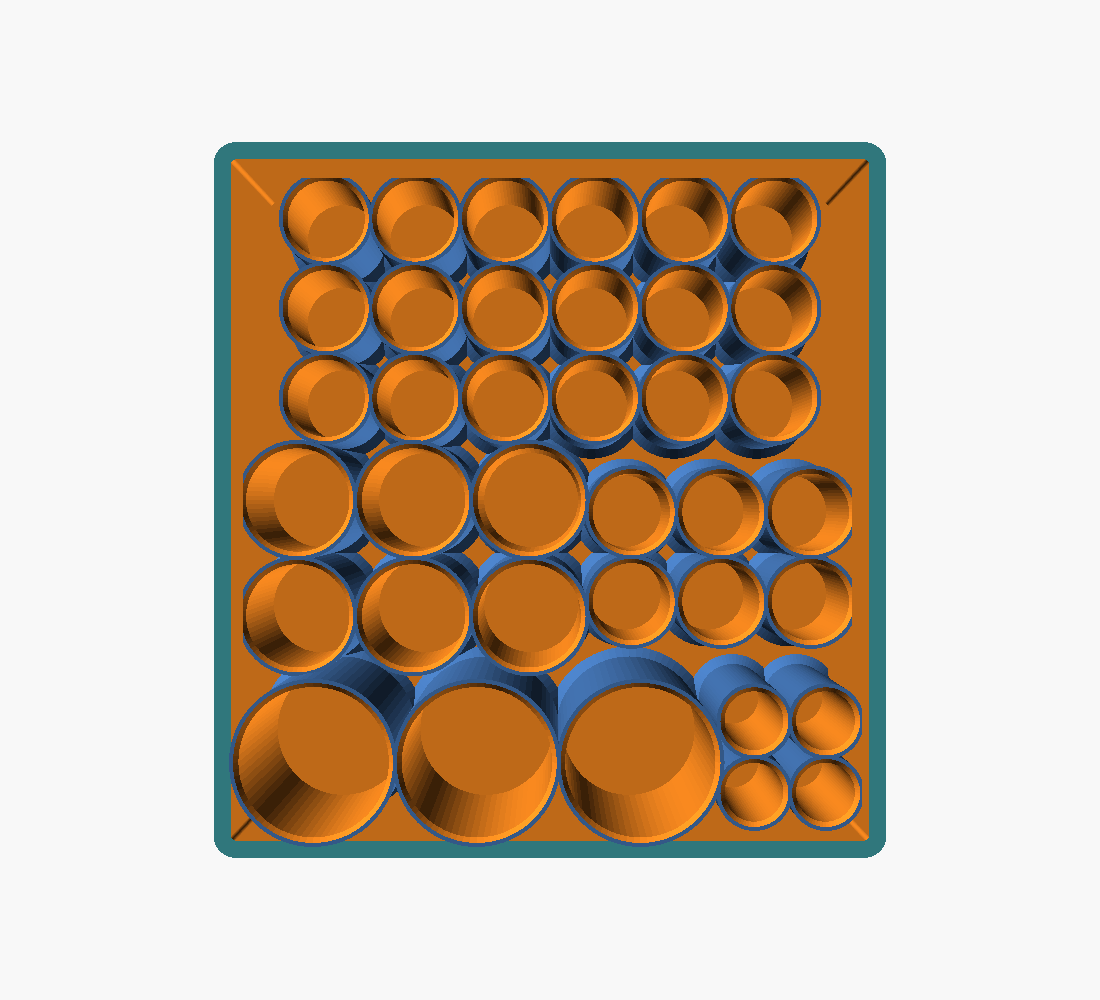
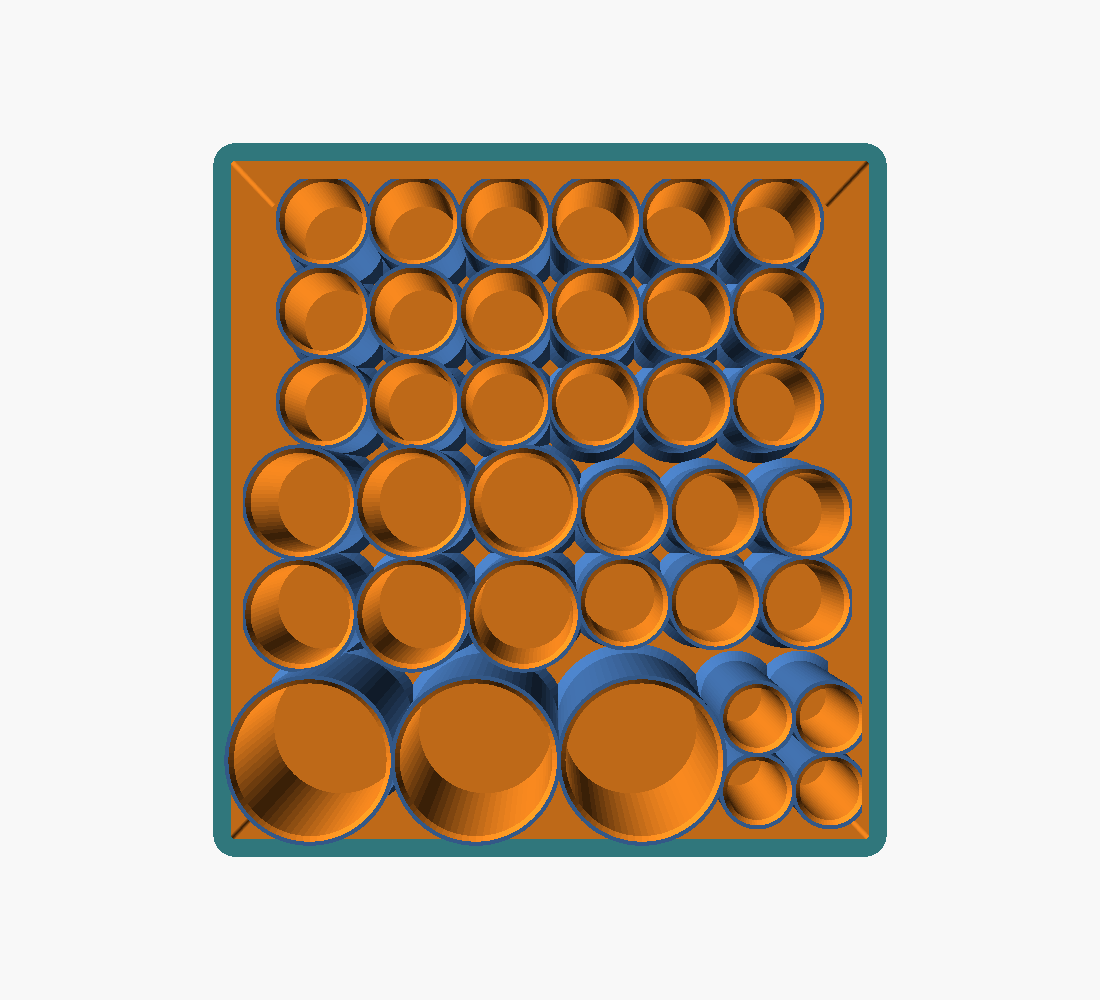
Apply caliper-verified vial ODs (10mL 21.7, 30mL 33.1); Design A chosen
Jason measured his vials: 10 mL 21.7 mm, 30 mL 33.1 mm -> bores 23.7 / 35.1 mm at
1.0 mm radial gap. Regenerated all designs; Design A picked for print
(154 x 164 x 91 mm, ~282 g tray, genus 0, bbox MATCH). 1 mL + syringe still assumed.

diff --git a/tools/layout.py b/tools/layout.py
@@ -20,10 +20,10 @@ def inch(mm): return mm / MM_PER_IN
 # FIT PARAMETERS  --  ASSUMPTIONS. Measure your vials and edit these.  (mm)
 # ---------------------------------------------------------------------------
 VIAL = {
-    "1ml":  {"od": 16.0, "h": 45.0, "clear": 3.0},   # roomy (finger-grab room)
-    "10ml": {"od": 23.0, "h": 55.0, "clear": 2.0},   # tightened -> 1.0 mm/side
-    "30ml": {"od": 33.0, "h": 78.0, "clear": 2.0},   # tightened -> 1.0 mm/side
-    "syr":  {"od": 14.0, "h": 65.0, "clear": 0.0},   # 3 mL syringe BARREL, needle off
+    "1ml":  {"od": 16.0, "h": 45.0, "clear": 3.0},   # ASSUMED (not yet calipered)
+    "10ml": {"od": 21.7, "h": 55.0, "clear": 2.0},   # CALIPER-VERIFIED 2026-07-12 -> bore 23.7 (1.0 mm/side)
+    "30ml": {"od": 33.1, "h": 78.0, "clear": 2.0},   # CALIPER-VERIFIED 2026-07-12 -> bore 35.1 (1.0 mm/side)
+    "syr":  {"od": 14.0, "h": 65.0, "clear": 0.0},   # ASSUMED 3 mL syringe BARREL, needle off
 }
 
 # --- honeycomb structure (reinforced against cold-weather snapping) ---

diff --git a/PARAMS.md b/PARAMS.md
@@ -8,12 +8,12 @@ regenerate every design. Dimensions below are given in **mm and inches**.
 These are the numbers most likely to be wrong for *your* vials. They are set generously,
 but measure your actual product and edit `VIAL` / `DIA_CLEAR` in `tools/layout.py`.
 
-| Item | Assumed OD | Assumed height | Bore (hole) cut | Radial gap | Notes |
+| Item | OD | Height | Bore (hole) cut | Radial gap | Notes |
 |------|-----------|----------------|-----------------|-----------|-------|
-| **1 mL vial** | 16.0 mm (0.63 in) | 45 mm (1.77 in) | 19.0 mm (0.75 in) | 1.5 mm/side | roomy on purpose — doubles as finger-grab room for a tiny vial |
-| **10 mL vial** | 23.0 mm (0.91 in) | 55 mm (2.17 in) | **25.0 mm (0.98 in)** | **1.0 mm/side** | tightened from 26.0 (fridge fit was loose) |
-| **30 mL vial** | 33.0 mm (1.30 in) | 78 mm (3.07 in) | **35.0 mm (1.38 in)** | **1.0 mm/side** | tightened from 36.0 (fridge fit was loose) |
-| **Syringe (2×2)** | 14.0 mm bore | 65 mm (2.56 in) | 14.0 mm (0.55 in) | — | **assumes barrel / short syringe standing, plunger up** |
+| **1 mL vial** | 16.0 mm (0.63 in) *(assumed)* | 45 mm (1.77 in) | 19.0 mm (0.75 in) | 1.5 mm/side | roomy on purpose — doubles as finger-grab room for a tiny vial |
+| **10 mL vial** | **21.7 mm** ✓calipered | 55 mm (2.17 in) | **23.7 mm (0.93 in)** | **1.0 mm/side** | measured 2026-07-12 |
+| **30 mL vial** | **33.1 mm** ✓calipered | 78 mm (3.07 in) | **35.1 mm (1.38 in)** | **1.0 mm/side** | measured 2026-07-12 |
+| **Syringe (2×2)** | 14.0 mm bore *(assumed)* | 65 mm (2.56 in) | 14.0 mm (0.55 in) | — | **assumes barrel / short syringe standing, plunger up** |
 
 **Syringe caveat:** a 3 mL syringe *with a long needle + cap* is ~90–115 mm — taller than
 the box. The 2×2 pockets are sized for **barrels stored plunger-up (needle off)**. If you
@@ -48,9 +48,11 @@ forgiving of the unverified OD assumption. Bore mouths are chamfered as a funnel
 
 | Design | Contents | Block W × L × H (mm) | Block (in) | Lid W × L × H (mm) | Lid (in) | ~PETG (tray+lid) |
 |--------|----------|---------------------|-----------|--------------------|----------|------------------|
-| **A — Compact** | 6×10 mL, 3×30 mL, 24×1 mL, 4 syr | 156 × 166 × 91 | 6.14 × 6.54 × 3.58 | 162 × 172 × 18.6 | 6.38 × 6.77 × 0.73 | ~330 g |
-| **B — Standard** | 8×10 mL, 4×30 mL, 30×1 mL, 4 syr | 192 × 166 × 91 | 7.56 × 6.54 × 3.58 | 198 × 172 × 18.6 | 7.80 × 6.77 × 0.73 | ~400 g |
-| **C — Max** | 10×10 mL, 5×30 mL, 36×1 mL, 6 syr | 204 × 188 × 91 | 8.03 × 7.40 × 3.58 | 210 × 194 × 18.6 | 8.27 × 7.64 × 0.73 | ~460 g |
+| **A — Compact** | 6×10 mL, 3×30 mL, 24×1 mL, 4 syr | 154 × 164 × 91 | 6.07 × 6.44 × 3.58 | 160 × 170 × 18.6 | 6.31 × 6.67 × 0.73 | ~320 g |
+| **B — Standard** | 8×10 mL, 4×30 mL, 30×1 mL, 4 syr | 192 × 164 × 91 | 7.57 × 6.44 × 3.58 | 198 × 170 × 18.6 | 7.81 × 6.67 × 0.73 | ~395 g |
+| **C — Max** | 10×10 mL, 5×30 mL, 36×1 mL, 6 syr | 204 × 186 × 91 | 8.03 × 7.30 × 3.58 | 210 × 192 × 18.6 | 8.27 × 7.54 × 0.73 | ~455 g |
+
+*(10 mL & 30 mL now caliper-verified; sizes updated from the earlier estimate.)*
 
 All three are **91 mm (3.58 in) tall** (set by the 30 mL vial). Shorter vials get shorter cells
 inside, so the block is much lighter than a solid one. Every block + its lid fits a 220 mm bed.

diff --git a/README.md b/README.md
@@ -22,8 +22,8 @@ and add the lift-off lid — every vial sits shaded in its own opaque cell.
 | 1 mL vials | 24 | 30 | 36 |
 | Syringes (2×N) | 4 | 4 | 6 |
 | **Total openings** | **37** | **46** | **57** |
-| Block (in) | 6.14 × 6.54 × 3.58 | 7.56 × 6.54 × 3.58 | 8.03 × 7.40 × 3.58 |
-| Block (mm) | 156 × 166 × 91 | 192 × 166 × 91 | 204 × 188 × 91 |
+| Block (in) | 6.07 × 6.44 × 3.58 | 7.57 × 6.44 × 3.58 | 8.03 × 7.30 × 3.58 |
+| Block (mm) | 154 × 164 × 91 | 192 × 164 × 91 | 204 × 186 × 91 |
 | Fits 220 mm bed | ✓ | ✓ | ✓ |
 | Light-tightness | genus 0 (sealed) | genus 0 | genus 0 |
 | ~PETG tray+lid @15% | ~330 g | ~400 g | ~460 g |
@@ -94,7 +94,8 @@ All 6 parts render **manifold / NoError**, **genus 0** (no wall openings), and r
 a neighbour or the wall (no free-standing tubes), all pockets inside the faces, tray+lid fit
 the bed, 5 mm base under every vial, vials recessed 8 mm. See `LOG.md`.
 
-## ⚠️ Fit assumptions to check first
-1 mL 16.0 mm OD · 10 mL 23.0 mm · 30 mL 33.0 mm · syringe cell 14 mm bore × 65 mm
-(barrel/short syringe, **needle off**). 10 mL & 30 mL bores tightened to a 1.0 mm radial gap.
-Details + how to change them: `PARAMS.md`.
+## Fit status
+- **10 mL 21.7 mm · 30 mL 33.1 mm — caliper-verified** (2026-07-12); bores 23.7 / 35.1 mm at a
+  1.0 mm radial gap.
+- **1 mL 16.0 mm · syringe 14 mm bore × 65 mm — still assumed** (barrel/short syringe, needle off).
+  Calipers welcome; both are one-line edits in `tools/layout.py`. Details: `PARAMS.md`.

diff --git a/GALLERY.md b/GALLERY.md
@@ -8,14 +8,18 @@ and are fully light-tight (genus 0).
 
 ---
 
-## A — Compact Honeycomb
-**37 cells:** 6×10 mL · 3×30 mL · 24×1 mL · 4 syringe — **156 × 166 × 91 mm (6.14 × 6.54 × 3.58 in)** — ~330 g PETG
+## A — Compact Honeycomb ⭐ chosen to print
+**37 cells:** 6×10 mL · 3×30 mL · 24×1 mL · 4 syringe — **154 × 164 × 91 mm (6.07 × 6.44 × 3.58 in)** — ~320 g PETG
+*(10 mL & 30 mL fits caliper-verified 2026-07-12)*
 
 Top-down (layout):
 ![A top-down](renders/A_top.png)
 
 3/4 view (fused honeycomb):
 ![A 3/4](renders/A_tray.png)
+
+Cutaway — vials rest on the base, each in its own cell (red = reference vials):
+![A cutaway](renders/A_section.png)
 
 Lid (prints roof-down):
 ![A lid](renders/A_lid.png)

diff --git a/LOG.md b/LOG.md
@@ -24,6 +24,8 @@ means all HARD checks cleared for A, B, and C.
 
 | 14 | **Reinforce vs cold-snap:** 45° fillet at every cell→base junction + perimeter wall 3→4 mm; recommend PETG (not PLA) + 4 walls | user: use the lightest that won't snap, reinforce if cold-prone | **PASS**, genus 0; +~25 g only (A 264→286, C 383→409 g tray); footprints unchanged |
 
+| 15 | **Caliper-verified 10 mL (21.7 mm) & 30 mL (33.1 mm)** ODs → bores 23.7 / 35.1 mm; Design A chosen for print | Jason measured his vials + picked A | **PASS**, A re-exported: 154 × 164 × 91 mm, genus 0, bbox MATCH, ~282 g tray |
+
 ## Geometry-check summary (final — fused honeycomb)
 All HARD checks clear for A, B, C:
 - shared web between adjacent bores ≥ 3.0 mm